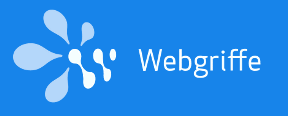
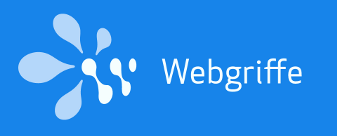
webgriffe promosso a sponsor gold

diff --git a/index.html b/index.html
@@ -409,14 +409,21 @@
                             <div class="clear"></div>
                         </div>
                         -->
+
+                        <div class="gold_sponsors">
+                            <h4 class="gold">Gold</h4>
+
+                            <a class="banner" href="http://www.webgriffe.com" title="Webgriffe">
+                                <img src="img/sponsor_webgriffe.png" alt="Silver Sponsor: Webgriffe" />
+                            </a>
+
+                            <div class="clear"></div>
+                        </div>                        
+                        
                         <div class="silver_sponsors">
                             <h4 class="silver">Silver</h4>
                             <a class="banner" href="http://www.wansoft.it" title="Wansoft">
                                 <img src="img/sponsor_wansoft.png" alt="Silver Sponsor: Wansoft" />
-                            </a>
-
-                            <a class="banner" href="http://www.webgriffe.com" title="Webgriffe">
-                                <img src="img/sponsor_webgriffe.png" alt="Silver Sponsor: Webgriffe" />
                             </a>
 
                             <div class="clear"></div>
